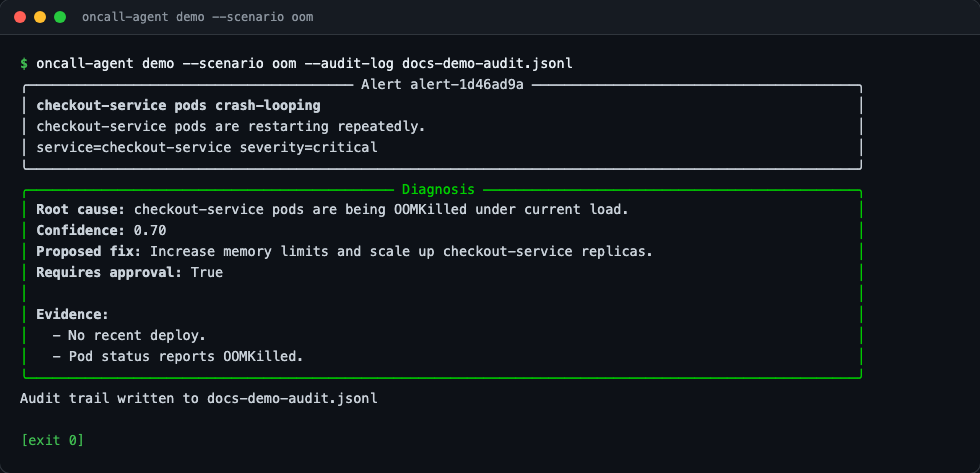
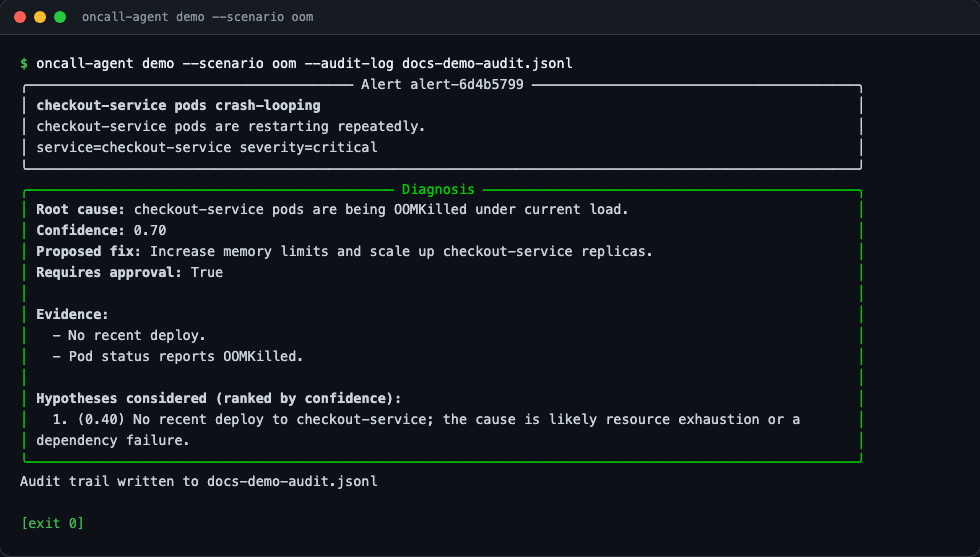
docs: README preview and screenshots for Phase 3
Re-captures every screenshot with the expanded config table and the
re-planning flow now visible in the unknown-cause scenario and audit
trail, and adds two new ones showing structured report export and the
rendered Markdown report. Switches the screenshot template to soft-wrap
long lines like a real terminal instead of clipping them at the window
edge.

Changed region(s): [[0.0, 0.0888, 0.8878, 0.8879], [0.0, 0.0, 0.3367, 0.0592], [0.0306, 0.9175, 0.0918, 0.9471]]

diff --git a/README.md b/README.md
@@ -13,24 +13,25 @@ This project is being built in public, one night at a time. See
 [`PROGRESS.md`](PROGRESS.md) for the full architecture, the phased build
 plan, and exactly where work left off.
 
-**Current phase:** Phase 1 (scaffold + core foundation) and Phase 2
-(real read-only tool integrations) are complete — domain models, an
+**Current phase:** Phases 1–3 are complete — domain models, an
 append-only audit trail, a pluggable LLM provider interface with a
 deterministic scripted policy, the investigate → hypothesize →
 diagnose loop, real Prometheus/kubectl/runbook/deploy-history clients
-alongside the original fakes, and a CLI, all backed by a full test
-suite.
+alongside the original fakes, multi-hypothesis ranking with
+contradiction-triggered re-planning, an optional local-model provider
+(Ollama), structured diagnosis report export (Markdown/JSON), and a
+CLI, all backed by a full test suite.
 
 ## Preview
 
 All screenshots below are real terminal output from the commands shown
 — nothing hand-typed or edited.
 
-**`oncall-agent --help`** — the four Phase 1 commands:
+**`oncall-agent --help`** — the five top-level commands:
 
 ![CLI help](docs/screenshots/01-cli-help.png)
 
-**`oncall-agent config`** — resolved settings, scripted provider by default:
+**`oncall-agent config`** — every resolved setting, including the Phase 3 Ollama provider URL/model:
 
 ![Resolved configuration](docs/screenshots/02-config.png)
 
@@ -42,17 +43,25 @@ All screenshots below are real terminal output from the commands shown
 
 ![OOM scenario](docs/screenshots/04-demo-oom.png)
 
-**`oncall-agent demo --scenario unknown`** — neither signal present, low-confidence diagnosis that escalates to a human:
+**`oncall-agent demo --scenario unknown`** — pod health contradicts the initial deploy-based guess, so the agent re-plans mid-investigation and the diagnosis lists every hypothesis it considered, ranked by confidence:
 
-![Unknown-cause scenario](docs/screenshots/05-demo-unknown.png)
+![Unknown-cause scenario with a mid-investigation re-plan](docs/screenshots/05-demo-unknown.png)
 
-**`oncall-agent audit`** — the full audit trail across all three runs above, step by step:
+**`oncall-agent audit`** — the full audit trail across all three runs above; note the `hypothesis_revised` event in the third incident where the agent changed its mind:
 
 ![Audit trail](docs/screenshots/06-audit-trail.png)
 
 **`oncall-agent demo --scenario bogus`** — invalid input is rejected before anything runs:
 
 ![Invalid scenario error](docs/screenshots/07-demo-invalid-scenario.png)
+
+**`oncall-agent demo --scenario unknown --report docs-demo-report.md`** — exporting a structured diagnosis report alongside the usual terminal output:
+
+![Demo run exporting a diagnosis report](docs/screenshots/08-demo-report-export.png)
+
+**`cat docs-demo-report.md`** — the exported Markdown report: alert context, diagnosis, evidence, and the ranked hypothesis comparison:
+
+![Exported Markdown diagnosis report](docs/screenshots/09-report-markdown-output.png)
 
 ## Why this exists
 
@@ -67,7 +76,16 @@ and waits for an explicit approval, logged alongside everything else.
 It also doesn't assume you have a paid LLM API key. The default
 provider is a deterministic, rule-based policy that needs no network
 access at all, which is what tests and CI run against. A real model —
-hosted or local — is a pluggable alternative, not a requirement.
+hosted (not yet built) or local via Ollama — is a pluggable
+alternative, not a requirement.
+
+Real investigations don't nail the diagnosis on the first guess either.
+The scripted policy forms an initial hypothesis from deploy history,
+but if the next tool result doesn't back it up at all, it revises
+instead of forcing a conclusion it just watched get contradicted — and
+the final diagnosis shows every hypothesis it held along the way,
+ranked by confidence, so a human reviewing it can see not just the
+answer but how the agent got there and what else it considered.
 
 ## Architecture
 
@@ -77,10 +95,13 @@ src/oncall_agent/
 ├── audit.py            AuditTrail — append-only JSON-lines audit log
 ├── config.py            Settings — env-driven configuration (ONCALL_AGENT_*)
 ├── investigation.py    the investigate -> hypothesize -> diagnose loop
+├── reasoning.py         rank_hypotheses / current_hypothesis — multi-hypothesis comparison
+├── report.py             export_report — Markdown/JSON diagnosis report export
 ├── llm/
 │   ├── base.py          LLMProvider / LLMRequest / LLMResponse contract
-│   ├── scripted.py      ScriptedPolicyProvider — deterministic default
-│   └── factory.py       get_provider(name) — swap providers from config
+│   ├── scripted.py      ScriptedPolicyProvider — deterministic default, re-plans on contradiction
+│   ├── ollama.py         OllamaProvider — optional local-model backend
+│   └── factory.py       get_provider(name, **kwargs) — swap providers from config
 ├── tools/
 │   ├── base.py           Tool / ToolRegistry contract
 │   ├── fakes.py          FakeRecentDeploysTool, FakePodStatusTool (demo doubles)
@@ -97,6 +118,13 @@ Phase 2 real clients (`prometheus.py`, `kubectl.py`, `deploys.py`,
 `runbooks.py`), reachable directly via `oncall-agent tools <name>`.
 Both sides of that interface are interchangeable — nothing above the
 `Tool` contract needs to know or care which one it's holding.
+
+`llm/` ships the same pattern one layer up: `ScriptedPolicyProvider`
+(the default, deterministic, network-free) and `OllamaProvider`
+(optional, talks to a local Ollama server and asks it to return its
+next decision as JSON) both satisfy the exact same `LLMProvider`
+contract, so `get_provider(name)` is the only place that knows which
+one it handed back.
 
 Full phase-by-phase plan (richer reasoning, the Slack approval gate,
 the chaos-kit simulator, the scorecard) is in
@@ -127,6 +155,10 @@ oncall-agent demo --scenario deploy-regression
 oncall-agent demo --scenario oom
 oncall-agent demo --scenario unknown
 
+# export the diagnosis as a structured report alongside the audit log
+oncall-agent demo --scenario unknown --report incident-report.md
+oncall-agent demo --scenario unknown --report incident-report.json --report-format json
+
 # inspect the audit trail an investigation left behind
 oncall-agent audit
 
@@ -155,16 +187,35 @@ append-only deploy ledger that stands in for a CD system's webhook
 history. None of these need a live cluster or Prometheus to build or
 test against — every unit test mocks the HTTP/subprocess boundary.
 
+The `demo` command still runs the scripted policy by default. To try
+the optional local-model provider instead, point it at a running
+[Ollama](https://ollama.com) server:
+
+```bash
+export ONCALL_AGENT_LLM_PROVIDER=ollama
+export ONCALL_AGENT_OLLAMA_URL=http://localhost:11434
+export ONCALL_AGENT_OLLAMA_MODEL=llama3.1
+oncall-agent demo --scenario deploy-regression
+```
+
+`OllamaProvider` asks the model to return its next decision as strict
+JSON matching the same `LLMResponse` shape the scripted policy
+produces, so it's a drop-in swap — nothing in `run_investigation` or
+the CLI needs to change. It needs network access to the Ollama server,
+which is exactly why it isn't the default: tests and CI stay on the
+scripted policy.
+
 ## Testing
 
 ```bash
 pytest -q --cov=oncall_agent
 ```
 
-91 tests, 99% statement coverage, no network access or API key
+136 tests, 99% statement coverage, no network access or API key
 required — this is also what CI runs. The real Prometheus/kubectl
-clients are tested by mocking the HTTP/subprocess boundary, so the
-suite never needs a live cluster or metrics backend.
+clients and the optional Ollama provider are all tested by mocking the
+HTTP/subprocess boundary, so the suite never needs a live cluster,
+metrics backend, or local model.
 
 ## License
 
